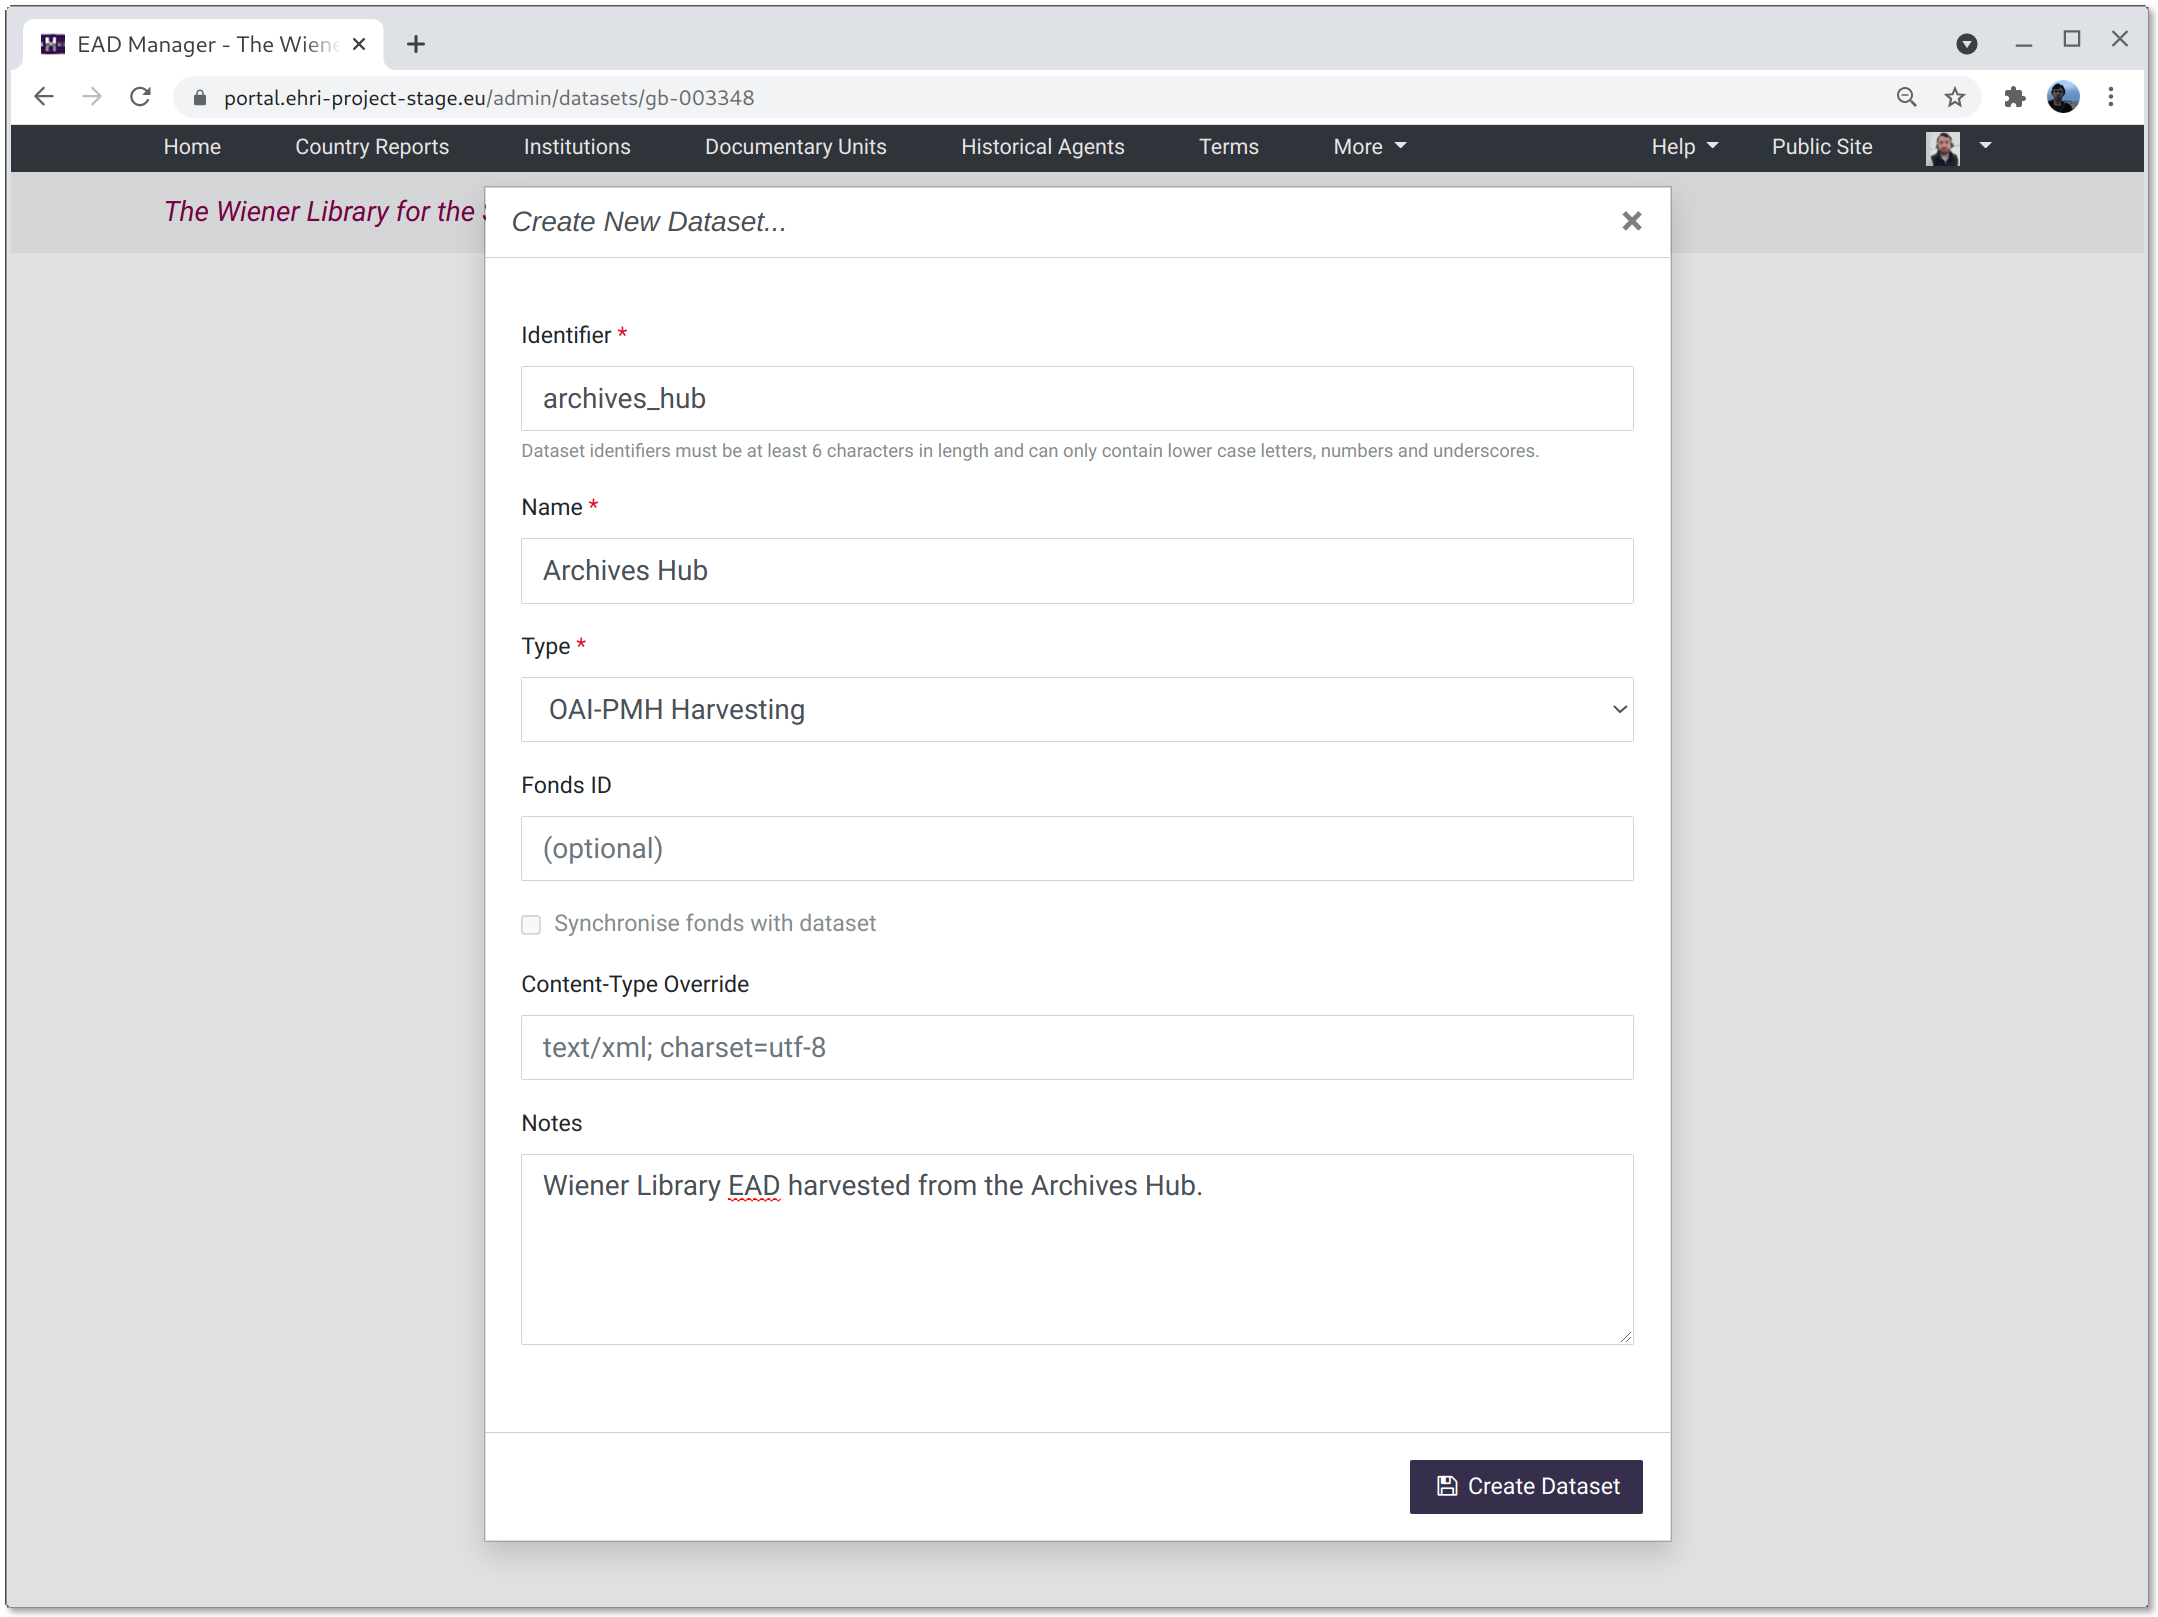
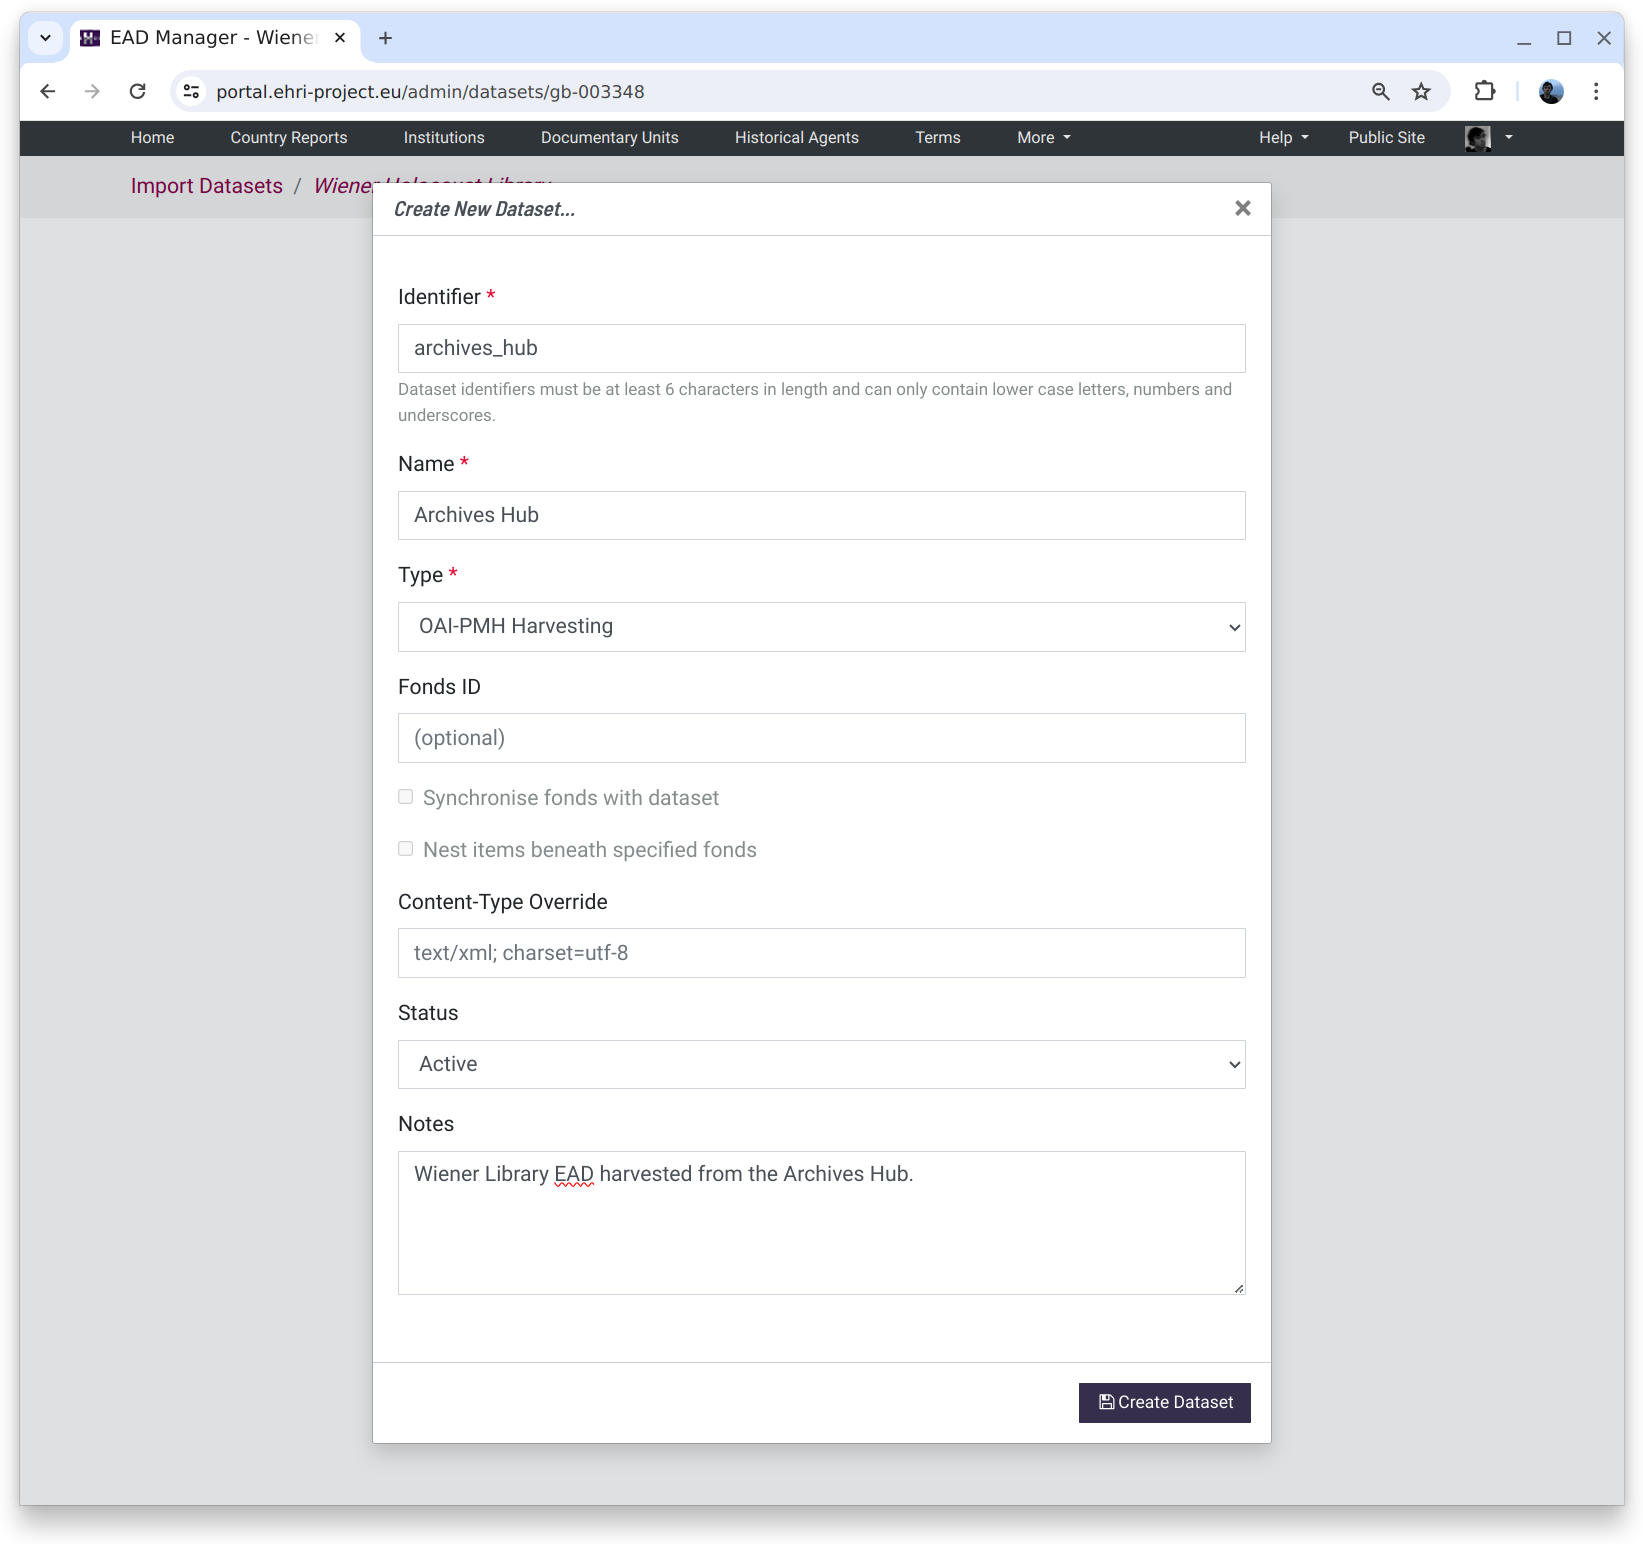
Document `nest` option on import dataset

diff --git a/docs/administration/institution-data/datasets.rst b/docs/administration/institution-data/datasets.rst
@@ -49,6 +49,11 @@ Synchronise fonds with dataset
   fonds has undergone a large reorganisation necessitating the removal of many units. Synchronisation only
   works when an institution has unique identifiers that are consistent before and after import.
 
+Nest under fonds
+  This tells the importer to nest the dataset under the fonds ID. This is useful when the dataset is a
+  collection of EAD files that are part of a larger fonds, and the EADs do not themselves contain a description of
+  the specified fonds ID.
+
 Content-Type Override
   By default it is assumed that datasets are XML data with a UTF-8 character set, or "text/xml; charset=utf-8"
   in internet media-type parlance.
